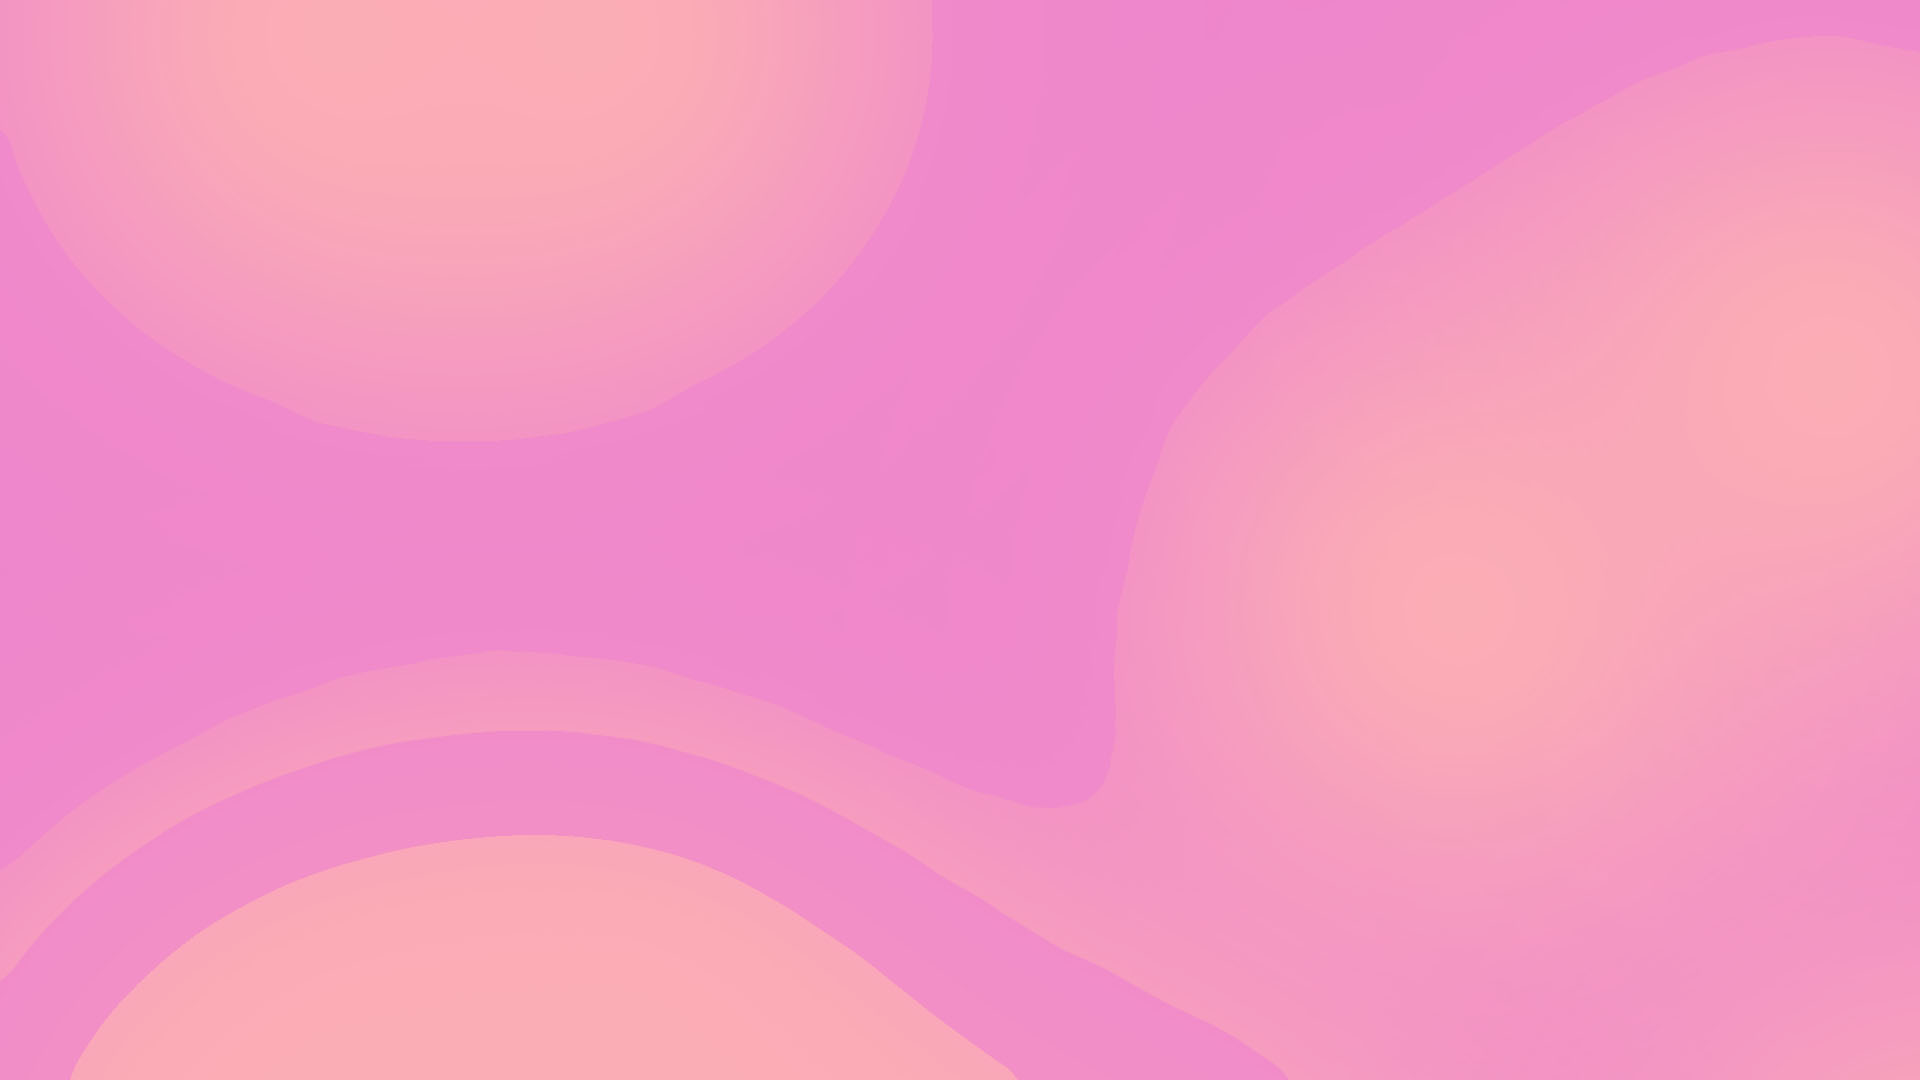
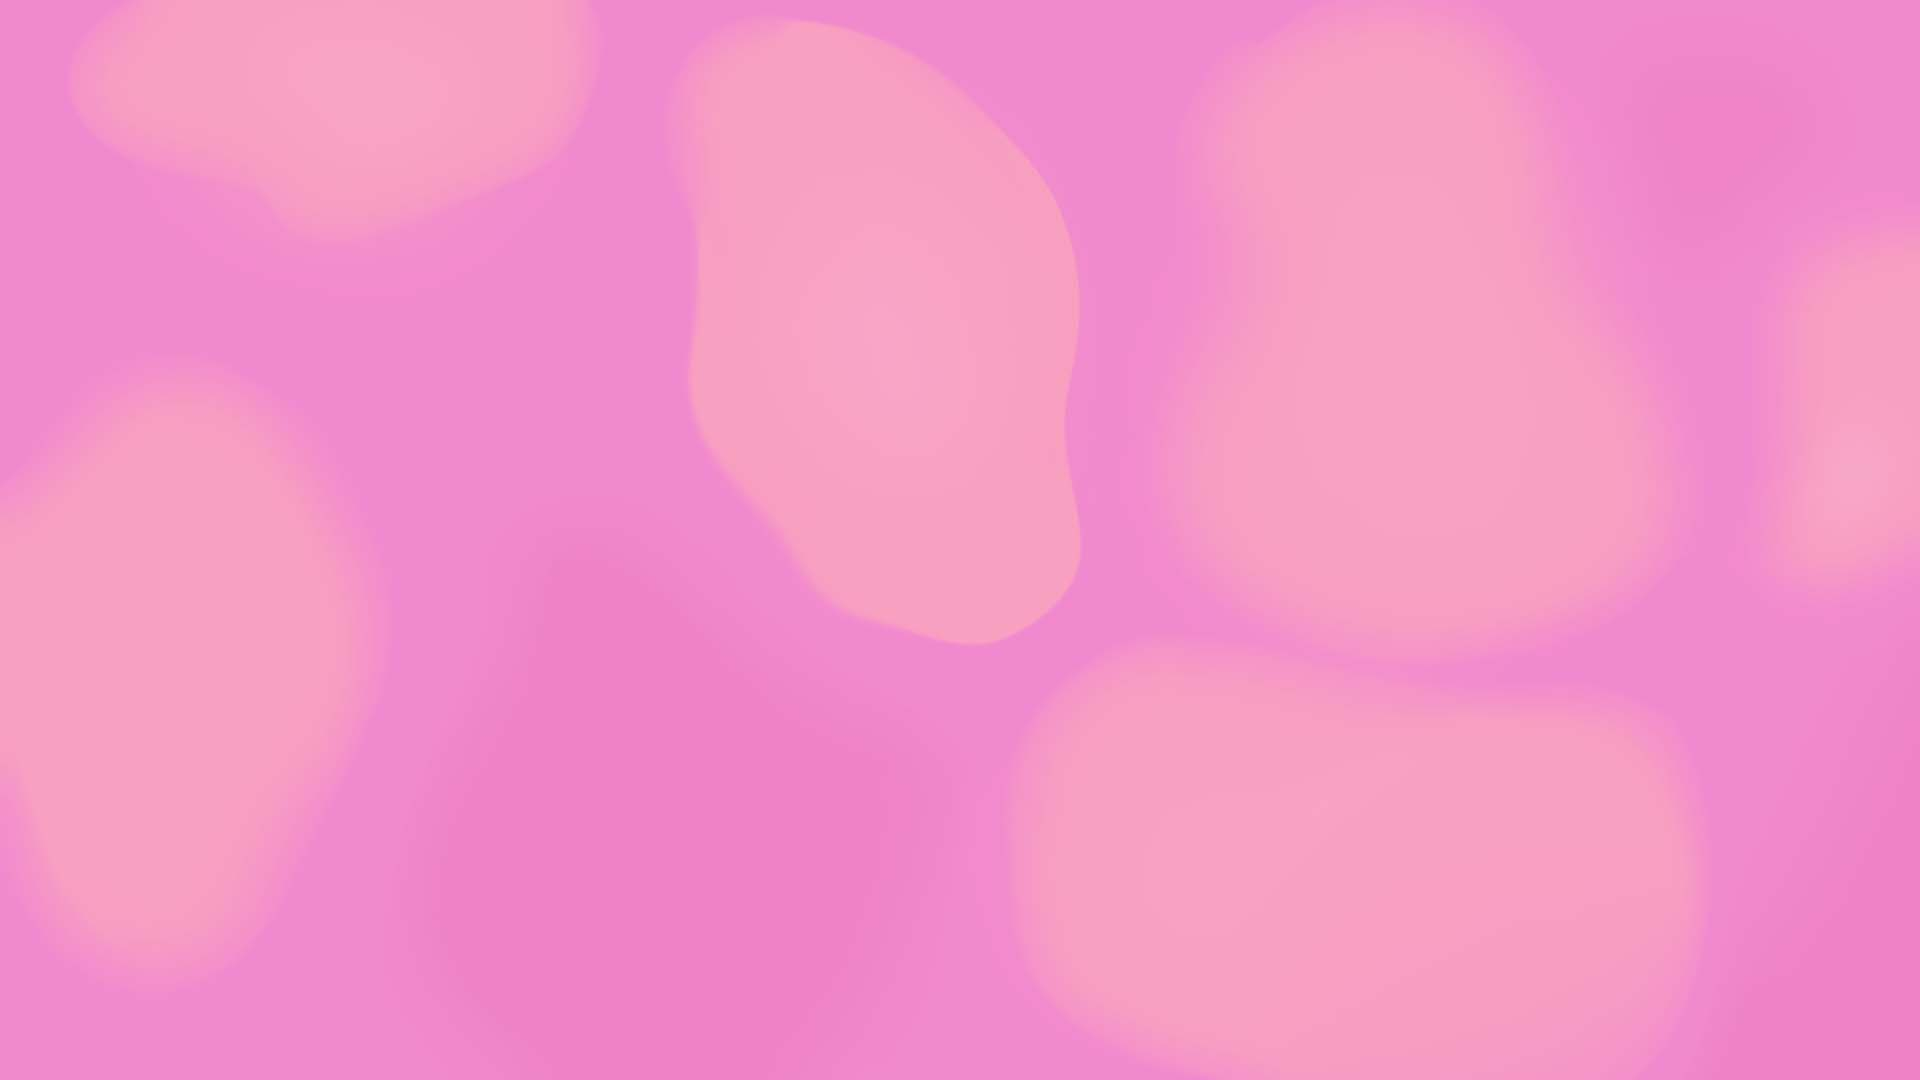
first conversation background

diff --git a/conversations.js b/conversations.js
@@ -91,3 +91,24 @@ let showMessage = (i) => {
 }
 
 showMessage(0)
+
+let perspectiveOriginX = 0;
+let perspectiveOriginY = 0;
+let pageX = window.innerWidth/2;
+let pageY = window.innerHeight/2;
+
+let map = document.getElementById("backgroundcontainer");
+function updatePerspective(){
+  perspectiveOriginX = (19*perspectiveOriginX + window.innerWidth/2 - pageX)/20;
+  perspectiveOriginY = (19*perspectiveOriginY + window.innerHeight/2 - pageY)/20;
+  map.style.perspectiveOrigin = `${perspectiveOriginX}px ${perspectiveOriginY}px`;
+  window.requestAnimationFrame(updatePerspective);
+}
+window.requestAnimationFrame(updatePerspective);
+
+
+function updateP(event){
+  pageX = event.pageX;
+  pageY = event.pageY;
+}
+addEventListener('mousemove', updateP, false);

diff --git a/conversations.css b/conversations.css
@@ -4,6 +4,38 @@ body {
   background-size: cover;
 }
 
+#backgroundcontainer {
+  perspective: 100px;
+  z-index: -1;
+}
+
+#backgroundcontainer,
+#backgroundcontainer img {
+  position: fixed;
+  top: 0;
+
+  height: 100vh;
+  width: 100vw;
+
+  object-fit: cover;
+}
+
+#backgroundcontainer img:first-child {
+  transform: translate3d(0, 0, 1px);
+}
+
+#backgroundcontainer img:nth-child(2) {
+  transform: translate3d(0, 0, 2px);
+}
+
+#backgroundcontainer img:nth-child(3) {
+  transform: translate3d(0, 0, 3px);
+}
+
+#backgroundcontainer img:nth-child(4) {
+  transform: translate3d(0, 0, 4px);
+}
+
 
 #conversation {
   min-height: 100vh;

diff --git a/seethewholeme/index.html b/seethewholeme/index.html
@@ -19,6 +19,12 @@
   </head>
 
   <body class="inprogress">
+    <div id="backgroundcontainer">
+      <img src="../images/backgroundseethewholeme.jpg">
+      <img src="../images/backgroundseethewholemelayer1.png">
+      <img src="../images/backgroundseethewholemelayer2.png">
+      <img src="../images/backgroundseethewholemelayer3.png">
+    </div>
     <section id="conversation">
       <ol id="messages"></ol>
     </section>

diff --git a/isthereanappforthat/index.html b/isthereanappforthat/index.html
@@ -19,6 +19,9 @@
   </head>
 
   <body class="inprogress">
+    <div id="backgroundcontainer">
+      <img src="../images/backgroundisthereanappforthat.jpg">
+    </div>
     <section id="conversation">
       <ol id="messages"></ol>
     </section>

diff --git a/givemefairaccess/index.html b/givemefairaccess/index.html
@@ -19,6 +19,9 @@
   </head>
 
   <body class="inprogress">
+    <div id="backgroundcontainer">
+      <img src="../images/backgroundgivemefairaccess.jpg">
+    </div>
     <section id="conversation">
       <ol id="messages"></ol>
     </section>

diff --git a/sharingiscaring/index.html b/sharingiscaring/index.html
@@ -19,6 +19,9 @@
   </head>
 
   <body class="inprogress">
+    <div id="backgroundcontainer">
+      <img src="../images/backgroundsharingiscaring.jpg">
+    </div>
     <section id="conversation">
       <ol id="messages"></ol>
     </section>

diff --git a/takemebythehand/index.html b/takemebythehand/index.html
@@ -19,6 +19,9 @@
   </head>
 
   <body class="inprogress">
+    <div id="backgroundcontainer">
+      <img src="../images/backgroundtakemebythehand.jpg">
+    </div>
     <section id="conversation">
       <ol id="messages"></ol>
     </section>

diff --git a/winbackmytrust/index.html b/winbackmytrust/index.html
@@ -19,6 +19,9 @@
   </head>
 
   <body class="inprogress">
+    <div id="backgroundcontainer">
+      <img src="../images/backgroundwinbackmytrust.jpg">
+    </div>
     <section id="conversation">
       <ol id="messages"></ol>
     </section>

diff --git a/onmyterms/index.html b/onmyterms/index.html
@@ -19,6 +19,9 @@
   </head>
 
   <body class="inprogress">
+    <div id="backgroundcontainer">
+      <img src="../images/backgroundonmyterms.jpg">
+    </div>
     <section id="conversation">
       <ol id="messages"></ol>
     </section>

diff --git a/isthereanappforthat/styles.css b/isthereanappforthat/styles.css
@@ -4,7 +4,3 @@
   --text-color: var(--isthereanappforthat-text-color);
   --conversation-color: var(--isthereanappforthat-text-color);
 }
-
-body {
-  background-image: url('../images/backgroundisthereanappforthat.jpg');
-}

diff --git a/givemefairaccess/styles.css b/givemefairaccess/styles.css
@@ -4,7 +4,3 @@
   --text-color: var(--givemefairaccess-text-color);
   --conversation-color: var(--givemefairaccess-text-color);
 }
-
-body {
-  background-image: url('../images/backgroundgivemefairaccess.jpg');
-}

diff --git a/seethewholeme/styles.css b/seethewholeme/styles.css
@@ -4,7 +4,3 @@
   --text-color: var(--seethewholeme-text-color);
   --conversation-color: var(--seethewholeme-text-color);
 }
-
-body {
-  background-image: url('../images/backgroundseethewholeme.jpg');
-}
